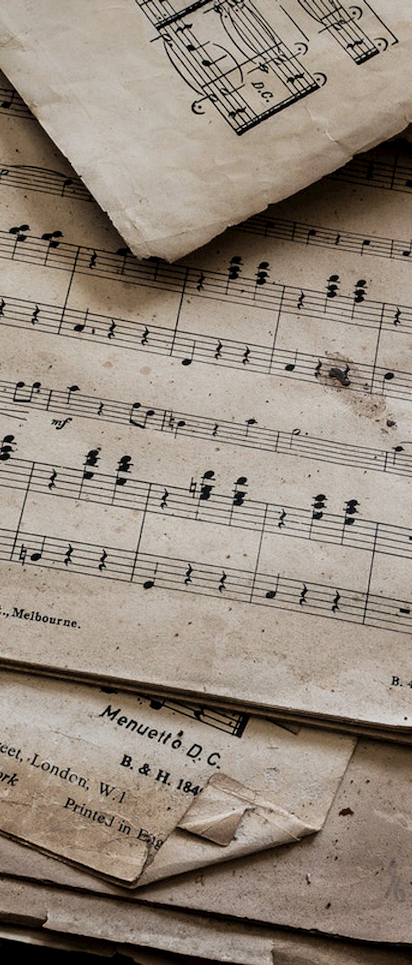
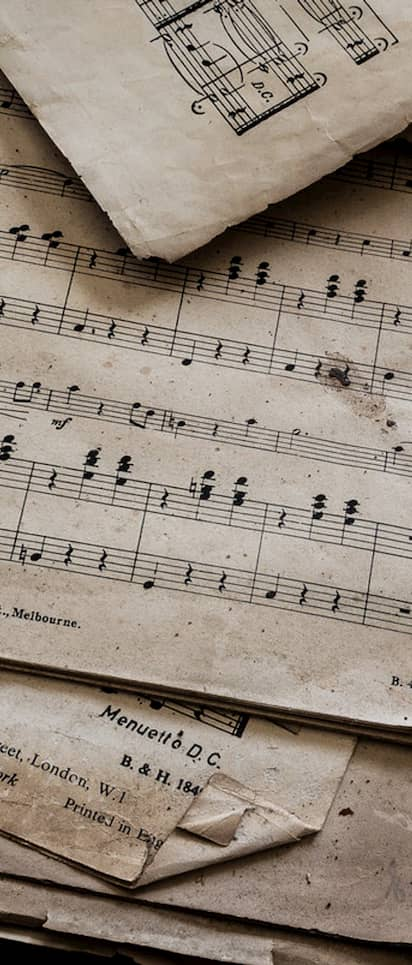
manual optimization of pieces-bg; small fixes in gallery, video and pieces

diff --git a/src/index.html b/src/index.html
@@ -161,8 +161,12 @@
                 </div>
               </li>
               <li class="video__item gallery__item">
-                <div class="video__media js-no-script" title="Beethoven's 3rd Sonata, Skoumal's Djinnia, 2 Kreislers and Waxman (Semifinal of the Kreisler Competition)">
-                  <a class="video__link" href="https://mediathek.mdw.ac.at/fritz_kreisler_2018/?tab=2&v=$1$IjK143WC$69noENcNRLqYfF68H89JL/" target="_blank" rel="noreferrer">
+                <div class="video__media js-no-script"
+                     title="Beethoven's 3rd Sonata, Skoumal's Djinnia, 2 Kreislers and Waxman (Semifinal of the Kreisler Competition)">
+                  <a class="video__link"
+                     href="https://mediathek.mdw.ac.at/fritz_kreisler_2018/?tab=2&v=$1$IjK143WC$69noENcNRLqYfF68H89JL/"
+                     target="_blank"
+                     rel="noreferrer">
                     <picture>
                       <source type="image/webp"
                               data-srcset="img/kreisler-comp@1x.webp 1x, img/kreisler-comp@2x.webp 2x">

diff --git a/src/scss/blocks/gallery.scss b/src/scss/blocks/gallery.scss
@@ -28,11 +28,13 @@
 
 .gallery__item {
   &:not(:last-child) {
-    margin-right: 30px;
+    @media #{$min-md} {
+      margin-right: 30px;
+    }
   }
 
   flex-shrink: 0;
-  max-height: 200px;
+  // max-height: 200px;
 }
 
 .gallery__link {
@@ -44,6 +46,7 @@
 }
 
 .gallery__img {
+  width: 100%;
   max-height: 100%;
   object-fit: contain;
 }

diff --git a/src/scss/blocks/video.scss b/src/scss/blocks/video.scss
@@ -14,6 +14,23 @@
   @include listReset;
 }
 
+.video__item {
+  max-width: 313px;
+  max-height: 250px;
+
+  @media #{$max-xl} {
+    max-width: 253px;
+  }
+
+  @media #{$max-lg} {
+    max-width: 280px;
+  }
+
+  @media #{$max-md} {
+    max-width: 480px;
+  }
+}
+
 .video__media {
   position: relative;
 

diff --git a/src/scss/blocks/pieces.scss b/src/scss/blocks/pieces.scss
@@ -56,7 +56,7 @@
     grid-auto-flow: column;
   }
 
-  @media #{$max-sm} {
+  @media #{$max-md} {
     grid-template-columns: 1fr;
     margin-bottom: 10px;
   }

diff --git a/src/scss/blocks/controls.scss b/src/scss/blocks/controls.scss
@@ -33,5 +33,5 @@
   opacity: 0.7;
   cursor: pointer;
 
-  transition: 0.2s ease-in-out;
+  transition: 0.2s ease-in-out background-color;
 }
